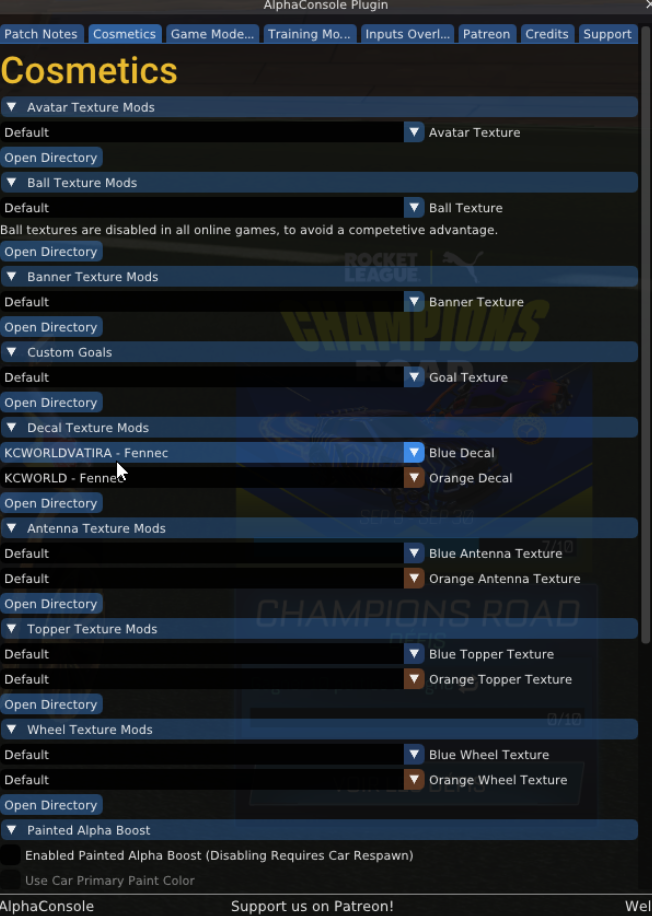
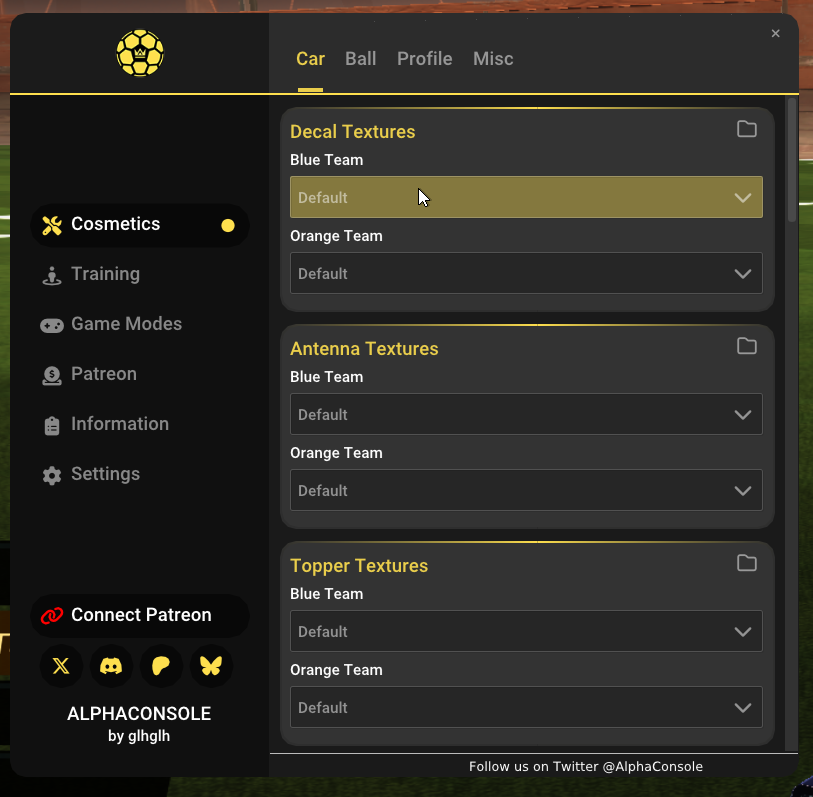
Mise à jour du tuto pour prendre en compte la maj alphaconsole

diff --git a/index.html b/index.html
@@ -197,9 +197,9 @@
                     data-lang-en="In this folder, drag the files from the zip folder and restart the game.">
                     Dans ce dossier, glisser les fichiers du dossier zip et relancer le jeu.
                 </p>
-                <p class="lang" data-lang-fr="Une fois le jeu relancé, presser F5. Une fenêtre va s’ouvrir, dans l’onglet “cosmetics”, sélectionner le sticker voulu dans la catégorie “Decal Texture Mods”."
-                    data-lang-en="Once the game is relaunched, press F5. A window will open, and in the 'cosmetics' tab, select the desired decal in the 'Decal Texture Mods' category.">
-                    Une fois le jeu relancé, presser F5. Une fenêtre va s’ouvrir, dans l’onglet “cosmetics”, sélectionner le sticker voulu dans la catégorie “Decal Texture Mods”.
+                <p class="lang" data-lang-fr="Une fois le jeu relancé, presser F5. Une fenêtre va s’ouvrir, dans l’onglet “car”, sélectionner le sticker voulu dans la catégorie “Decal Texture”."
+                    data-lang-en="Once the game is relaunched, press F5. A window will open, and in the 'car' tab, select the desired decal in the 'Decal Texture' category.">
+                    Une fois le jeu relancé, presser F5. Une fenêtre va s’ouvrir, dans l’onglet “car”, sélectionner le sticker voulu dans la catégorie “Decal Texture”.
                 </p>
                 <img src="img/tuto/cosmetics.png" alt="">
             </div>
